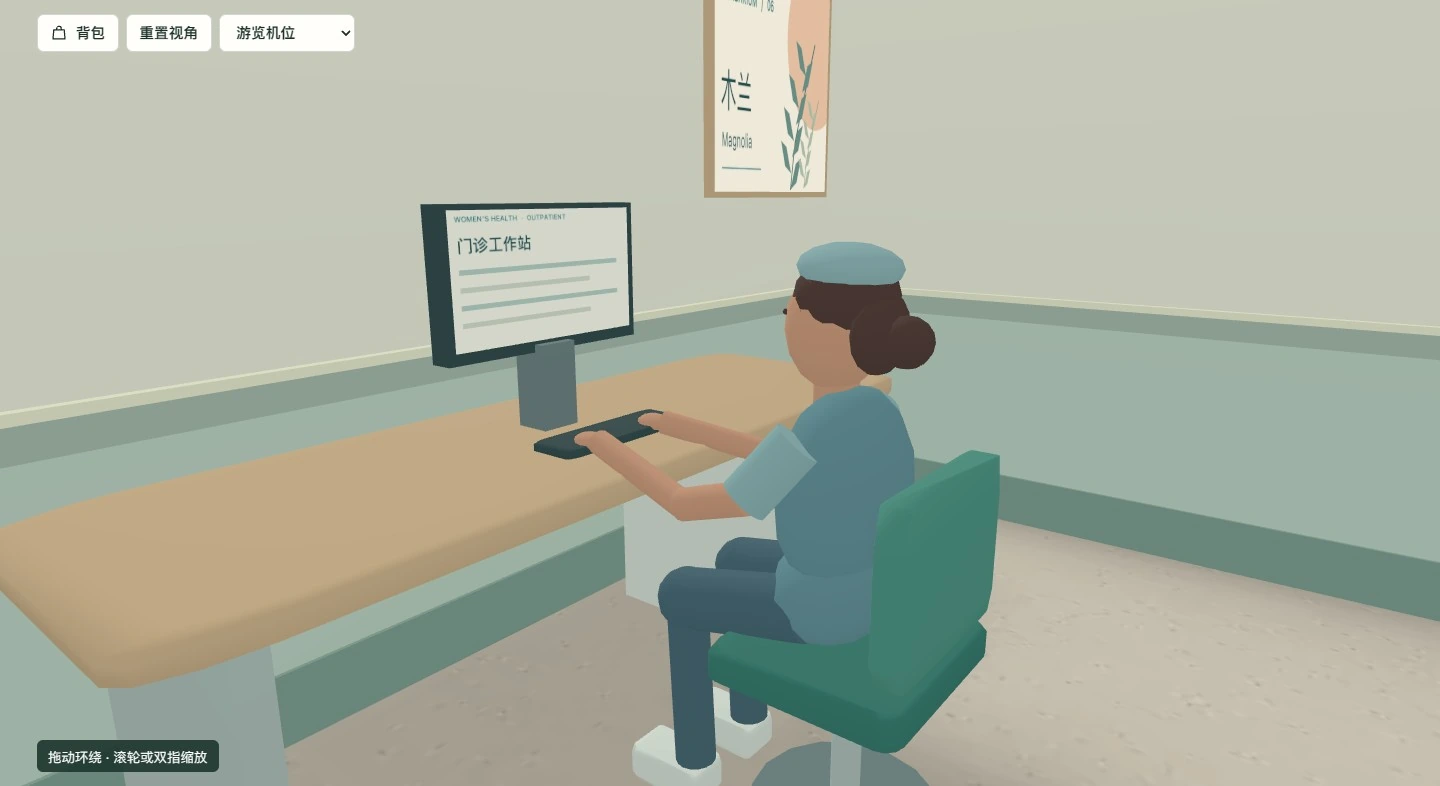
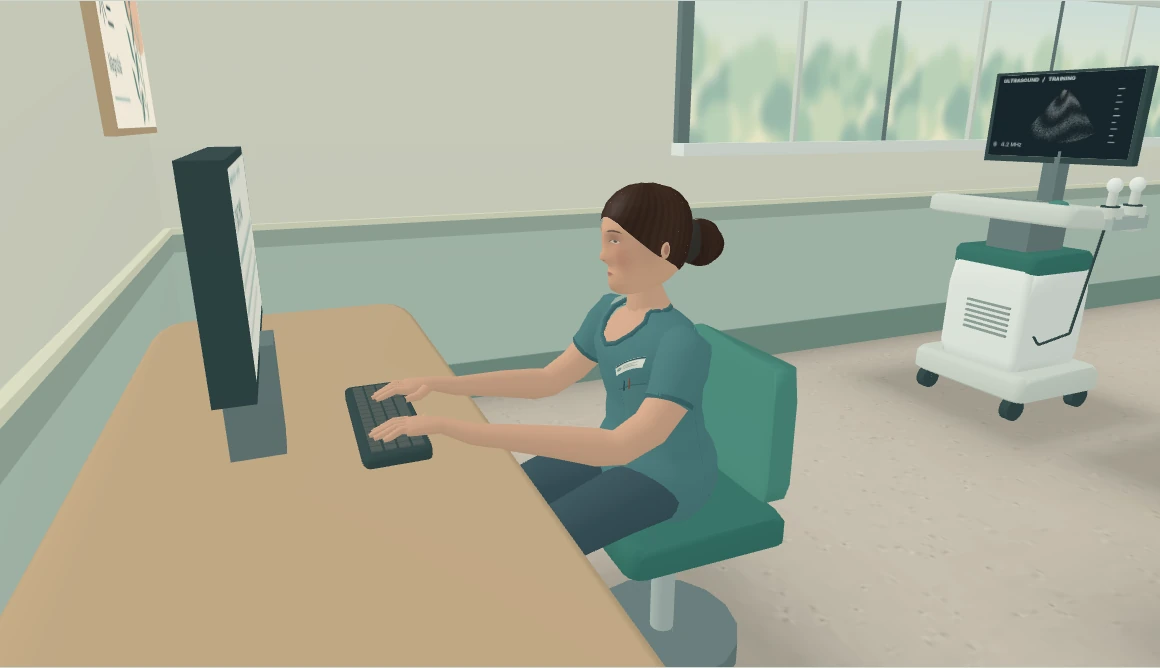
Refine the seated clinic nurse and separate figure geometry from room fixtures

diff --git a/src/mmdVrShowcase/scenery/clinic/nurseFigure.ts b/src/mmdVrShowcase/scenery/clinic/nurseFigure.ts
@@ -1,0 +1,74 @@
+import {nurseSurface,section,mix,tau,type Ring,type Sample,type Finish} from './nurseSurface';
+
+// All coordinates are measured from the existing chair at floor level; the
+// keyboard is ahead (+Z). Keep UV islands inset so mipmaps don't sample labels.
+const bell=(x:number,w:number)=>Math.exp(-(x*x)/(w*w));
+
+export function clinicNurseGeometry(){
+  const {patch,bulb,tube,cord,build}=nurseSurface();
+
+  const skin='#dbad92',scrub='#54878b',binding='#426f76',trousers='#405b66';
+  const skull:Ring[]=[[1.035,.014,.026,.119],[1.045,.04,.052,.107],[1.067,.055,.073,.092],[1.093,.070,.085,.080],[1.122,.079,.093,.078],[1.149,.082,.099,.077],[1.175,.081,.103,.078],[1.206,.083,.099,.079],[1.232,.077,.088,.080],[1.254,.059,.068,.080],[1.269,.034,.040,.081],[1.275,.003,.004,.081]];
+  // One continuous face surface: jaw, chin, cheeks, eye sockets, brow and
+  // nose alter the profile, rather than attaching balls to a spherical head.
+  patch(64,44,(u,v)=>{
+    const y=1.035+.240*v,[w,d,z]=section(skull,y),a=(u-.5)*tau,x=w*Math.sin(a),f=Math.max(0,Math.cos(a));
+    const cheek=.008*bell(Math.abs(x)-.044,.019)*bell(v-.41,.15),socket=-.007*bell(Math.abs(x)-.031,.015)*bell(v-.518,.051);
+    const brow=.005*bell(Math.abs(x)-.030,.022)*bell(v-.607,.044),nose=.012*bell(x,.011)*bell(v-.46,.155)+.015*bell(x,.016)*bell(v-.355,.054)+.005*bell(Math.abs(x)-.011,.006)*bell(v-.337,.022);
+    const mouth=.005*bell(x,.029)*bell(v-.20,.034),chin=.006*bell(x,.023)*bell(v-.085,.069);
+    return [x,y,z+d*Math.cos(a)+f*f*(cheek+socket+brow+nose+mouth+chin)];
+  },'face','#ffffff');
+  tube([[[0,.973,.055],.062,.053],[[0,1.01,.073],.053,.048],[[0,1.05,.079],.041,.038],[[0,1.096,.084],.043,.038]],skin);
+  for(const s of [-1,1]){
+    bulb([s*.079,1.144,.074],[.012,.021,.012],skin);
+    bulb([s*.089,1.145,.075],[.003,.011,.006],'#b88673');
+  }
+  // Side part swept back from the temple. Keep the forehead and ears clear;
+  // the nape and bun have different strand directions and a visible fabric tie.
+  patch(48,18,(u,v)=>{const a=(u-.5)*tau,co=Math.cos(a),si=Math.sin(a);
+    const edge=1.126+.084*Math.max(0,co)**1.55-.039*Math.max(0,-co)+.015*si*co;
+    const y=mix(edge,1.281,v),[w,d,z]=section(skull,Math.min(y-.007,1.274));
+    const corr=(.004+.0014*Math.cos(a*19+v*3.8))*(1-v);
+    return [(w+corr)*si,y,z+(d+corr+.003*(1-co))*co];},'hair','#f6ece1');
+  bulb([0,1.146,-.027],[.055,.052,.040],'#383633');
+  patch(32,14,(u,v)=>{const a=tau*u,b=(v-.5)*3.14,r=1+.065*Math.sin(a*6+b*3);return [.002+.061*r*Math.cos(b)*Math.sin(a),1.14+.055*Math.sin(b),-.060+.052*r*Math.cos(a)*Math.cos(b)]},'hair','#e4dbcf');
+
+  // Raglan top over the lap, with gathered side seams and a real overlapping V.
+  const bodice:Ring[]=[[.503,.139,.099,.038],[.541,.173,.131,.041],[.60,.184,.143,.036],[.664,.172,.127,.036],[.708,.155,.107,.042],[.77,.146,.105,.048],[.836,.157,.114,.059],[.900,.174,.116,.068],[.95,.178,.092,.067],[.980,.148,.071,.061],[1.003,.070,.046,.070]];
+  tube([[[0,.909,.070],.133,.109],[[0,.935,.072],.125,.097],[[0,.972,.069],.103,.068],[[0,.994,.072],.065,.046],[[0,1.015,.072],.047,.042]],skin,'paint',32);
+  const bodyAt:Sample=(u,v)=>{const a=(u-.5)*tau,co=Math.cos(a),si=Math.sin(a);const cut=.085*Math.max(0,co)**7;
+    const y=.503+(.5-cut)*v,[w,d,z]=section(bodice,y);
+    const wrinkle=(.005*Math.cos(2*Math.PI*(y*13+.8*si))+.003*Math.sin(a*7+y*17))*bell(y-.665,.084)*(.4+.6*Math.abs(si));
+    return [(w+wrinkle)*si,y,z+(d+wrinkle)*co];};
+  patch(48,34,bodyAt,'fabric',scrub);
+  const neckEdge=Array.from({length:31},(_,i)=>bodyAt(i/30,1));cord(neckEdge,.006,binding);
+  for(const side of [-1,1]){
+    cord(Array.from({length:11},(_,i)=>bodyAt(.5+side*(.265+.035*Math.sin(i*.23)),.04+i*.067)),.0018,'#4b7d81');
+    cord(Array.from({length:9},(_,i)=>bodyAt(.5+side*(.36-i*.021),.89+.053*Math.cos(i*.26))),.0017,'#679797');
+  }
+  // Chest patch, stitched pocket and short pen clips, all attached to fabric.
+  function panel(u0:number,u1:number,v0:number,v1:number,finish:Finish,col:string,lift:number){patch(8,6,(u,v)=>{const r=bodyAt(mix(u0,u1,u),mix(v0,v1,v));r[2]+=lift;return r;},finish,col,false);}
+  panel(.558,.646,.57,.72,'fabric','#598b8d',.002);cord([bodyAt(.558,.72),bodyAt(.60,.719),bodyAt(.646,.72)].map(([x,y,z])=>[x,y,z+.003]),.0022,binding);
+  panel(.554,.635,.80,.85,'badge','#ffffff',.003);
+  for(const [i,c] of ['#335868','#8b5744'].entries()){const [x,y,z]=bodyAt(.578+i*.019,.70);cord([[x,y,z+.006],[x,y+.025,z+.004]],.0025,c);}
+
+  for(const s of [-1,1]){
+    const delta=s>0?.017:-.012;
+    // Shoulder cap to cuff; arm continues *inside* the opening. Forearms
+    // pronate and taper to a wrist resting just above the front of the desk.
+    tube([[[s*.129,.948,.065],.044,.047],[[s*.167,.932,.068],.060,.066],[[s*.187,.902,.087],.061,.060],[[s*.202,.858,.113],.055,.052],[[s*.208,.840,.126],.054,.052]],scrub,'fabric');
+    tube([[[s*.206,.847,.122],.055,.052],[[s*.21,.838,.127],.055,.052]],binding,'fabric');
+    tube([[[s*.204,.851,.118],.044,.045],[[s*.215,.797,.171],.042,.042],[[s*.211,.762,.240],.037,.038],[[s*.201,.767,.285],.043,.039],[[s*.181,.787,.374],.037,.032],[[s*.139,.814,.514+delta],.025,.021],[[s*.121,.834,.569+delta],.023,.015],[[s*.112,.838,.616+delta],.036,.016],[[s*.109,.837,.635+delta],.035,.014]],skin,'paint',18);
+    for(let j=0;j<4;j++){
+      const x=s*(.082+j*.016),z=.628+delta,len=[.071,.078,.071,.055][j];
+      tube([[[x,.838,z],.009,.010],[[x+s*.003,.842,z+len*.4],.008,.008],[[x+s*.004,.832,z+len*.75],.007,.007],[[x+s*.003,.826,z+len],.005,.005]],skin,'paint',9);
+    }
+    tube([[[s*.086,.837,.589+delta],.015,.012],[[s*.073,.827,.611+delta],.012,.010],[[s*.063,.826,.641+delta],.007,.007]],skin);
+    // Seat compresses the back of the trousers; the two feet are staggered.
+    const step=s>0?.042:-.022;
+    tube([[[s*.080,.578,-.015],.083,.069],[[s*.083,.579,.060],.092,.076],[[s*.094,.561,.180],.086,.073],[[s*.106,.535,.292],.075,.067],[[s*.109,.512,.363],.067,.066],[[s*.110,.479,.389],.064,.061],[[s*.113,.413,.380],.060,.054],[[s*.114,.310,.35+step*.4],.054,.051],[[s*.115,.198,.334+step],.045,.044],[[s*.119,.115,.338+step],.045,.043],[[s*.119,.091,.340+step],.051,.045]],trousers,'fabric',20);
+    const shoe:Ring[]=[[.011,.043,.101,.380],[.022,.054,.118,.386],[.037,.053,.117,.387],[.055,.050,.112,.385],[.078,.047,.080,.362],[.100,.041,.050,.342],[.109,.032,.039,.34]];
+    for(const sole of [true,false])patch(20,sole?2:7,(u,v)=>{const y=sole?mix(.011,.031,v):mix(.031,.109,v),[w,d,z]=section(shoe,y),a=tau*u;return [s*.118+w*Math.sin(a),y-.010,z+step+d*Math.cos(a)]},'paint',sole?'#8c9694':'#e5e7db');
+  }
+  return build();
+}

diff --git a/src/mmdVrShowcase/scenery/clinic/nurseSurface.ts b/src/mmdVrShowcase/scenery/clinic/nurseSurface.ts
@@ -1,0 +1,69 @@
+import {BufferGeometry,Color,Float32BufferAttribute,Vector3} from 'three';
+
+export type V=[number,number,number];
+export type Ring=[number,number,number,number]; // y, half width, half depth, centre z
+type Joint=[V,number,number];
+export type Sample=(u:number,v:number)=>V;
+export type Finish='paint'|'fabric'|'face'|'hair'|'badge';
+// Pixel rectangles in bakeNurse.py, with a margin for filtered sampling.
+const finishes:Record<Finish,{rect:[number,number,number,number];rough:number}>={
+  paint:{rect:[850,330,10,10],rough:.68},fabric:{rect:[771,3,250,250],rough:.91},
+  face:{rect:[1,1,510,510],rough:.71},hair:{rect:[514,2,252,252],rough:.50},badge:{rect:[521,273,245,147],rough:.44},
+};
+export const tau=Math.PI*2;
+export const mix=(a:number,b:number,t:number)=>a+(b-a)*t;
+const clamp=(t:number)=>Math.min(1,Math.max(0,t));
+export function section(rows:Ring[],y:number){
+  let i=0;
+  while(i<rows.length-2&&y>rows[i+1][0])i++;
+  const a=rows[i],b=rows[i+1],t=clamp((y-a[0])/(b[0]-a[0]));
+  return [mix(a[1],b[1],t),mix(a[2],b[2],t),mix(a[3],b[3],t)];
+}
+
+/** Build one static, indexed draw. Normals come from neighbouring samples of
+ * the actual surface, including across UV seams, not from texture luminance. */
+export function nurseSurface(){
+  const pos:number[]=[],colors:number[]=[],norm:number[]=[],uv:number[]=[],rough:number[]=[],indices:number[]=[];
+  const tu=new Vector3(),tv=new Vector3(),point=new Vector3(),other=new Vector3();
+  function patch(nx:number,ny:number,at:Sample,finish:Finish,color:string,wrap=true){
+    const start=pos.length/3,c=new Color(color),{rect:[x,y,w,h],rough:r}=finishes[finish];
+    const stride=nx+1;
+    for(let j=0;j<=ny;j++)for(let i=0;i<=nx;i++){
+      const u=i/nx,v=j/ny;pos.push(...at(u,v));colors.push(c.r,c.g,c.b);rough.push(r);
+      uv.push((x+w*u)/1024,1-(y+h*(1-v))/512);
+      if(i&&j){const b=start+j*stride+i,a=b-stride-1;indices.push(a,a+1,b,a,b,b-1);}
+    }
+    for(let j=0;j<=ny;j++)for(let i=0;i<=nx;i++){
+      const row=start+j*stride;
+      point.fromArray(pos,(row+(i===nx?(wrap?1:nx):i+1))*3);
+      other.fromArray(pos,(row+(i===0?(wrap?nx-1:0):i-1))*3);tu.subVectors(point,other);
+      point.fromArray(pos,(start+Math.min(j+1,ny)*stride+i)*3);
+      other.fromArray(pos,(start+Math.max(j-1,0)*stride+i)*3);tv.subVectors(point,other);
+      tu.cross(tv).normalize();norm.push(tu.x,tu.y,tu.z);
+    }
+  }
+  function bulb(p:V,r:V,col:string,finish:Finish='paint',segments=16){
+    patch(segments,8,(u,v)=>{const a=tau*(u-.5),b=(v-.5)*3.14;return [p[0]+r[0]*Math.sin(a)*Math.cos(b),p[1]+r[1]*Math.sin(b),p[2]+r[2]*Math.cos(a)*Math.cos(b)]},finish,col);
+  }
+  function tube(js:Joint[],col:string,finish:Finish='paint',sides=14){
+    // Loft one ring per joint. Extra interpolated rings along straight limbs
+    // cost triangles without changing their silhouette.
+    const knots=js.map(([p])=>new Vector3(...p));
+    const dirs=knots.map((_,i)=>knots[Math.min(i+1,knots.length-1)].clone().sub(knots[Math.max(0,i-1)]).normalize());
+    const ref=Math.abs(dirs[0].x)>.85?new Vector3(0,0,1):new Vector3(1,0,0);
+    const axes=dirs.map(d=>{const a=ref.clone().addScaledVector(d,-ref.dot(d)).normalize();return [a,a.clone().cross(d)];});
+    patch(sides,js.length-1,(u,v)=>{
+      const i=Math.round(v*(js.length-1)),[a,b]=axes[i];
+      return point.copy(knots[i]).addScaledVector(a,js[i][1]*Math.sin(tau*u)).addScaledVector(b,js[i][2]*Math.cos(tau*u)).toArray();
+    },finish,col);
+  }
+  function cord(points:V[],r:number,col:string){tube(points.map((p,i)=>[p,r*(i===0||i===points.length-1?.5:1),r]),col,'paint',7);}
+  function build(){
+    const g=new BufferGeometry();
+    for(const [name,data,size] of [['position',pos,3],['normal',norm,3],['color',colors,3],['uv',uv,2],['finishRoughness',rough,1]] as const){
+      g.setAttribute(name,new Float32BufferAttribute(data,size));
+    }
+    g.setIndex(indices);g.computeBoundingSphere();return g;
+  }
+  return {patch,bulb,tube,cord,build};
+}

diff --git a/src/mmdVrShowcase/scenery/clinic/ClinicNurse.tsx b/src/mmdVrShowcase/scenery/clinic/ClinicNurse.tsx
@@ -1,39 +1,30 @@
-import {useEffect,useMemo} from 'react';
-import {BoxGeometry, Color, CylinderGeometry, Float32BufferAttribute, Object3D, SphereGeometry, type MeshStandardMaterial} from 'three';
-import {mergeGeometries} from 'three/addons/utils/BufferGeometryUtils.js';
+import {useCallback,useEffect,useMemo} from 'react';
+import {DataTexture,SRGBColorSpace,type MeshStandardMaterial} from 'three';
 import {useMmdVrStore} from '../../mmdVrStore';
-import {ClinicParts,padGeometry} from './clinicParts';
+import {useBakedSurface} from '../useBakedSurface';
 import {FIXTURES} from './clinicLayout';
-import {seatedNurse} from './clinicTeaching';
-
-// Bake just the original nurse's instance transforms/colours into one opaque
-// mesh, leaving the desk, chair and architecture in their existing batches.
-function nurseGeometry(){
-  const p=new ClinicParts();seatedNurse(p);
-  const pose=new Object3D(),tint=new Color(),seat=FIXTURES.deskSeat;
-  const batches=[[p.blocks,new BoxGeometry()], [p.soft,padGeometry()],
-    [p.poles,new CylinderGeometry(.5,.5,1,16)], [p.ovals,new SphereGeometry(.5,12,8)]] as const;
-  const pieces=batches.flatMap(([parts,base])=>parts.map(part=>{
-    const g=base.clone();g.deleteAttribute('uv');
-    pose.position.set(part.p[0]-seat.x,part.p[1],part.p[2]-seat.z);
-    pose.rotation.set(part.rx??0,part.ry??0,part.rz??0);pose.scale.set(...part.s);pose.updateMatrix();
-    g.applyMatrix4(pose.matrix);tint.set(part.color);
-    const rgb=new Float32BufferAttribute(new Float32Array(g.attributes.position.count*3),3);
-    for(let i=0;i<rgb.count;i++)rgb.setXYZ(i,tint.r,tint.g,tint.b);
-    return g.setAttribute('color',rgb);
-  }));
-  const geometry=mergeGeometries(pieces);
-  for(const g of pieces)g.dispose();for(const [,g] of batches)g.dispose();
-  return geometry;
-}
+import {clinicNurseGeometry} from './nurseFigure';
+import paintUrl from './clinic-nurse.webp';
 
 type Props={shadows:boolean;shade:MeshStandardMaterial['onBeforeCompile']};
 function NurseMesh({shadows,shade}:Props){
-  const geometry=useMemo(nurseGeometry,[]);
-  useEffect(()=>()=>geometry.dispose(),[geometry]);
+  const geometry=useMemo(clinicNurseGeometry,[]),paint=useBakedSurface(paintUrl);
+  // Keep the existing figure visible before the portrait finishes decoding.
+  const primer=useMemo(()=>{
+    const rgba=[0xe0b092,0xe0b092,0xffffff,0xffffff,0xe0b092,0xe0b092,0x41302a,0xffffff];
+    const map=new DataTexture(new Uint8Array(rgba.flatMap(c=>[c>>16,(c>>8)&255,c&255,255])),4,2);
+    map.colorSpace=SRGBColorSpace;map.needsUpdate=true;return map;
+  },[]);
+  const finish=useCallback<MeshStandardMaterial['onBeforeCompile']>((shader,gl)=>{
+    shade(shader,gl);
+    shader.vertexShader='attribute float finishRoughness; varying float vFinishRoughness;\n'+shader.vertexShader.replace('#include <begin_vertex>','#include <begin_vertex>\nvFinishRoughness=finishRoughness;');
+    shader.fragmentShader='varying float vFinishRoughness;\n'+shader.fragmentShader.replace('#include <roughnessmap_fragment>','#include <roughnessmap_fragment>\nroughnessFactor=vFinishRoughness;');
+  },[shade]);
+  useEffect(()=>()=>{geometry.dispose();primer.dispose()},[geometry,primer]);
+  useEffect(()=>{if(paint)primer.dispose()},[paint,primer]);
   return <mesh name="scenery:clinic-nurse" position={[FIXTURES.deskSeat.x,0,FIXTURES.deskSeat.z]} raycast={()=>null}
     pointerEvents="none" castShadow={shadows} receiveShadow={shadows}>
-    <primitive object={geometry} attach="geometry"/><meshStandardMaterial vertexColors roughness={.88} onBeforeCompile={shade}/>
+    <primitive object={geometry} attach="geometry"/><meshStandardMaterial map={paint??primer} vertexColors onBeforeCompile={finish}/>
   </mesh>;
 }
 

diff --git a/src/mmdVrShowcase/scenery/clinic/clinicTeaching.ts b/src/mmdVrShowcase/scenery/clinic/clinicTeaching.ts
@@ -12,30 +12,6 @@ export function modelBench(p:ClinicParts){
   p.poster(EXHIBITS[1].x,2.10,-3.142,.76,0,3);p.poster(EXHIBITS[2].x,2.10,-3.142,.76,0,4);
 }
 
-export function seatedNurse(p:ClinicParts){
-  const {x,z}=F.deskSeat,scrubs='#648f9a',sleeve='#8cb0b5',skin='#c9987d',hair='#533e3b';
-  // A seated static figure on the existing seat, facing its keyboard (+Z).
-  p.egg(x,.605,z+.035,.333,.237,.238,scrubs);
-  p.egg(x,.813,z+.026,.367,.421,.249,scrubs,-.065);
-  p.cylinder(x,.995,z+.052,.095,.104,.09,skin);
-  p.egg(x,1.13,z+.060,.204,.25,.191,skin,.07);
-  p.egg(x,1.192,z+.036,.214,.164,.203,hair,.04);p.egg(x,1.13,z-.038,.182,.162,.091,hair);
-  p.egg(x,1.117,z-.092,.107,.099,.101,hair);p.egg(x,1.247,z+.03,.215,.095,.201,sleeve,-.05);
-  p.egg(x,1.133,z+.15,.039,.049,.039,skin);
-  for(const k of [-1,1]){
-    p.egg(x+k*.052,1.16,z+.14,.015,.012,.008,hair);
-    p.rod([x+k*.156,.939,z+.04],[x+k*.213,.826,z+.119],.101,sleeve);
-    p.rod([x+k*.209,.831,z+.114],[x+k*.191,.773,z+.287],.068,skin);
-    p.rod([x+k*.191,.773,z+.287],[x+k*.111,.827,z+.603],.059,skin);
-    p.egg(x+k*.108,.824,z+.634,.069,.041,.091,skin);
-    p.rod([x+k*.087,.573,z+.055],[x+k*.105,.515,z+.348],.134,'#486775');
-    p.egg(x+k*.103,.515,z+.35,.135,.135,.136,'#486775');
-    p.rod([x+k*.105,.515,z+.35],[x+k*.104,.122,z+.329],.093,'#486775');
-    p.pad(x+k*.104,.075,z+.389,.108,.081,.196,C.milk);
-  }
-  p.box(x-.09,.892,z+.136,.062,.051,.012,C.white,0,-.18,-.10);
-}
-
 export function instrumentTray(p:ClinicParts){
   const {x,z}=F.steelCart;
   p.pad(x,.842,z,.786,.018,.435,C.chrome);p.pad(x,.852,z,.75,.006,.394,'#315e62');

diff --git a/src/mmdVrShowcase/scenery/clinic/clinicEquipment.ts b/src/mmdVrShowcase/scenery/clinic/clinicEquipment.ts
@@ -83,6 +83,13 @@ export function examRoom(p:ClinicParts){
   p.box(desk.x-.78,.375,desk.z,.57,.706,.62,C.milk);p.box(desk.x+.96,.382,desk.z,.062,.703,.64,C.chrome);
   p.box(desk.x+.014,.894,desk.z+.074,.11,.235,.10,C.iron);monitor(p,desk.x+.015,1.175,desk.z+.081,.612,.367,13,pi);
   p.pad(desk.x+.02,.81,desk.z-.17,.41,.022,.13,C.graphite);
+  // The desk is seen from close by now. Put the keycaps at fingertip height,
+  // in the existing dark hardware batch rather than one mesh per key.
+  for(let row=0;row<4;row++)for(let key=0;key<15;key++){
+    if(row===0&&key>=4&&key<=10)continue;
+    p.box(desk.x+.02+(key-7)*.024, .822,desk.z-.211+row*.026,.020,.004,.021,'#56625f');
+  }
+  p.box(desk.x+.02,.822,desk.z-.211,.158,.004,.021,'#53615e');
   ({x,z}=F.deskSeat);p.pad(x,.465,z,.46,.076,.427,C.teal);p.pad(x,.708,z-.18,.428,.332,.071,C.green);p.cylinder(x,.25,z,.064,.348,.064,C.chrome);p.cylinder(x,.07,z,.41,.063,.41,C.iron);
   p.frame(-7.99,1.79,4.69,.80,.80,pi,5,C.oak);
 }

diff --git a/src/mmdVrShowcase/scenery/roomViews.ts b/src/mmdVrShowcase/scenery/roomViews.ts
@@ -26,7 +26,8 @@ export const roomViews:Record<SceneryId,RoomView>={
     {key:'clinicGardenPorch',eye:[CLINIC_ORIGIN.x+4.15,1.6,CLINIC_ORIGIN.z+11.25],aim:[CLINIC_ORIGIN.x,1.35,CLINIC_ORIGIN.z+7.0]}]},
   astralCourt:{entry:[[.85,1.65,4.4],[0,1.47,-1.25]],shots:COURT_SHOTS.map(s=>({...s,overview:s.key==='courtOverview'}))},
   chapel:{entry:[[.25,1.63,4.7],[0,1.68,-3.8]],shots:CHAPEL_SHOTS}, clinic:{entry:CLINIC_VIEW,shots:[...CLINIC_SHOTS,
-    {key:'clinicDesk',eye:[-4.90,1.53,2.12],aim:[-6.42,.96,3.74]}]},
+    {key:'clinicDesk',eye:[-4.90,1.53,2.12],aim:[-6.42,.96,3.74]},
+    {key:'clinicDeskSide',eye:[-5.00,1.41,4.24],aim:[-6.43,.95,3.65]}]},
   qinhuai:{entry:SCREEN_ENTRY,shots:[...SHOTS,
     {key:'qinLacquer',eye:[3.48,2.05,-5.70],aim:[4.03,1.41,-6.70]},
     {key:'qinMooring',eye:[4.38,.91,13.03],aim:[3.65,.19,11.99]}]},

diff --git a/src/i18n/en.ts b/src/i18n/en.ts
@@ -30,6 +30,7 @@ export const en: Record<keyof ZhMessages, string> = {
   weddingGateFinish:'Lacquer and roof tiles',classWindowDesk:'Window-side desk',
   sceneryPeople:'Scene people',sceneryPeopleOn:'Scene people: on',sceneryPeopleOff:'Scene people: off',
   clinicDesk:'Consultation desk',
+  clinicDeskSide:'Beside the consultation desk',
   classWindowPortrait:'Window-light portrait',
   qinLacquer:'Strings and lacquer',qinMooring:'At the mooring post',
   clinicModels:'Anatomy models',clinicInstruments:'Instrument tray',clinicSupplies:'Hygiene supplies',

diff --git a/src/i18n/zh.ts b/src/i18n/zh.ts
@@ -28,6 +28,7 @@ export const zh = {
   weddingGateFinish:'门楼漆木与灰瓦',classWindowDesk:'窗边课桌',
   sceneryPeople:'场景人物',sceneryPeopleOn:'场景人物：开',sceneryPeopleOff:'场景人物：关',
   clinicDesk:'诊室工作台',
+  clinicDeskSide:'工作台侧面',
   classWindowPortrait:'窗边人像',
   qinLacquer:'近看琴弦与漆面',qinMooring:'埠头系舟处',
   clinicModels:'解剖教具台',clinicInstruments:'妇产科器械盘',clinicSupplies:'卫生用品架',

diff --git a/src/mmdVrShowcase/scenery/clinic/bakeNurse.py b/src/mmdVrShowcase/scenery/clinic/bakeNurse.py
@@ -1,0 +1,47 @@
+"""Original clinic figure paint; no photographs or external assets. Pillow + NumPy."""
+from pathlib import Path
+import math
+import numpy as np
+from PIL import Image, ImageDraw
+
+# Left half: cylindrical face UV, U=.5 at the nose, V=0 at the chin.
+n=512
+y,x=np.mgrid[:n,:n]; angle=(x/(n-1)-.5)*2*math.pi; v=1-y/(n-1)
+rng=np.random.default_rng(57)
+base=np.zeros((n,n,3))+[224,176,146]
+base+=rng.normal(0,.8,(n,n,1))
+def wash(a,b,s,t,col,amount):
+    g=np.exp(-((angle-a)/s)**2-((v-b)/t)**2)[...,None]*amount
+    base[:]=base*(1-g)+np.array(col)*g
+for side in [-1,1]:
+    wash(side*.53,.37,.34,.14,[194,122,111],.45)
+    wash(side*.38,.556,.27,.071,[144,100,92],.5)
+    wash(side*1.26,.50,.40,.19,[181,135,117],.40)
+wash(0,.07,.64,.08,[180,128,114],.35)
+face=Image.fromarray(np.uint8(np.clip(base,0,255))); d=ImageDraw.Draw(face)
+def pts(seq):return [((a/(2*math.pi)+.5)*(n-1),(1-b)*(n-1)) for a,b in seq]
+def poly(seq,c): d.polygon(pts(seq),fill=c)
+def line(seq,c,w):d.line(pts(seq),fill=c,width=w,joint='curve')
+for s in [-1,1]:
+    def mir(seq): return [(s*a,b) for a,b in seq]
+    # The lids enclose the iris; the darker upper lid overlaps its upper arc.
+    eye=[(.19,.514),(.27,.531),(.37,.538),(.46,.534),(.55,.522),(.48,.508),(.38,.500),(.28,.503)]
+    poly(mir(eye),'#e1d1be');xy=pts([(s*.365,.518)])[0];ix,iy=xy
+    d.ellipse((ix-5.5,iy-6.5,ix+5.5,iy+5.5),fill='#564437');d.ellipse((ix-2.5,iy-3.5,ix+2.5,iy+2),fill='#2c2823');d.ellipse((ix-2,iy-3,ix-.5,iy-1.5),fill='#e2d9cc')
+    line(mir(eye[:5]),'#59423b',2);line(mir([(.24,.550),(.35,.559),(.46,.554),(.53,.540)]),'#b78571',1)
+    poly(mir([(.17,.603),(.26,.619),(.40,.628),(.56,.617),(.65,.597),(.52,.607),(.37,.611),(.23,.599)]),'#665046')
+    line(mir([(.047,.340),(.094,.333),(.13,.339)]),'#926452',2)
+poly([(-.245,.204),(-.10,.219),(0,.214),(.09,.219),(.245,.204),(.10,.197),(0,.195),(-.11,.198)],'#ab7467')
+poly([(-.245,.204),(-.12,.179),(0,.174),(.13,.182),(.245,.204),(0,.196)],'#c18b7f');line([(-.205,.203),(0,.197),(.205,.203)],'#925f56',1)
+atlas=Image.new('RGB',(1024,512),'white');atlas.paste(face,(0,0));
+# Hair brush follows the sweep towards the low twist. Keep value variation in
+# broad locks; dark fine strands never become bright isolated pixels at distance.
+p=(x/(n-1));t=y/(n-1);phase=2*math.pi*(p*35+.55*np.sin(p*2*math.pi+t*3)+.33*t)
+h=4.4*np.sin(phase)+2.5*np.sin(phase*2.9)+5*np.sin(p*math.pi*8+t*2)
+hair=np.uint8(np.clip(np.array([65,48,42])[None,None,:]+h[...,None]*[1,.8,.67],0,255));atlas.paste(Image.fromarray(hair).resize((256,256)),(512,0))
+weave=(np.sin(p*math.pi*230)*1.8+np.cos(t*math.pi*194)*1.8+.9*np.sin(t*30+p*6))
+cloth=np.uint8(np.clip(247+weave,0,255));atlas.paste(Image.fromarray(cloth).convert('RGB').resize((256,256)),(768,0))
+# A woven clinic emblem and pen marks, not a real employee identity.
+badge=Image.new('RGB',(248,150),'#e6e9de');bd=ImageDraw.Draw(badge);bd.rectangle((0,0,247,26),fill='#335f66');bd.ellipse((15,52,62,99),fill='#6c999b');bd.line((24,76,35,76,40,64,46,85,51,76,55,76),fill='#f2ede1',width=3)
+for yy,w in [(56,116),(76,94),(96,121)]:bd.rounded_rectangle((79,yy,79+w,yy+6),radius=2,fill='#75918e')
+atlas.paste(badge,(520,272));atlas.save(Path(__file__).with_name('clinic-nurse.webp'),quality=94,method=6)

diff --git a/docs/scenery/clinic-teaching.md b/docs/scenery/clinic-teaching.md
@@ -6,6 +6,8 @@
 
 **原有护士的显隐。** 屏幕选「游览机位 → 诊室工作台」，在「背包 → 环境」切换「场景人物」；VR 在「B → 更多 → 环境」。[同机位开关对照](../screenshots/clinic-people-toggle.webp)。默认显示；隐藏后座椅、显示器和三类教具不动，护士专属的占地与射线遮挡随之移除。模拟 XR 扳机与屏幕勾选均验证了离区回访、刷新记忆和已放置 PMX／GLB 的位置与朝向。其余九景没有内置人物，不显示这个开关。
 
+**近看工作台。** 选「工作台侧面」，能看到护士侧脸、低发髻、制服领口和停在键盘上的手指。她仍是静态布景人物，没有打字动画。[同机位建模前后，左旧右新](../screenshots/clinic-nurse-before-after.webp) · [侧面实景](../screenshots/clinic-nurse.webp)。脸、头发、织物与胸牌共用一张原创 1024 × 512 图集（11,974 字节），粗糙度由顶点区分。新版人物为一个网格，9,692 个顶点、17,232 个三角形；不占角色名额，也不创建 Bullet 世界。桌面 WebGL 着色程序链接通过，真机帧率待验。
+
 - **解剖教具台（妇科诊室）**：从左至右是盆腔正中矢状剖面、子宫与附件正面剖面、胎儿与胎盘模型。左侧模型的前方在观察者左手边：蓝色膀胱在前，阴道上接宫颈，棕色直肠在后。中央可见宫腔、两侧输卵管及游离的伞端，第三件模型用脐带连接胎儿腹部和宫壁上的胎盘。每件对应一张墙图。护士坐在既有工作台前，不占背包角色名额。
 - **妇产科器械盘（手术室）**：在推车近看四件静态器械：带窗叶片的产钳、双叶窥器、环形钳头的卵圆钳、带指环的手术剪。器械牌只列名称与英文对照。
 - **卫生用品架（女卫生间）**：在有中文包装和图标的三格货架区分验孕试纸、卫生巾与一次性内裤。置物架旁和两个隔间内各有带盖脚踏桶。产后照护图贴在架旁，也挂在候诊宣教墙，区分可在随访时讨论的问题与需要立即就医的症状。
@@ -21,7 +23,7 @@
 
 ## 维护与核对
 
-- [模型与器械几何](../../src/mmdVrShowcase/scenery/clinic/teachingSolids.ts)在进场时生成，各合并为一个静态顶点色网格。货架、包装、底座和护士复用房间已有实例批次。新增绘制共三批：模型、器械、印刷面；退出后释放几何和图集，不创建额外灯光、骨骼或物理世界。
+- [模型与器械几何](../../src/mmdVrShowcase/scenery/clinic/teachingSolids.ts)在进场时生成，各合并为一个静态顶点色网格。包装、底座和键帽复用房间实例批次。护士由独立的 [ClinicNurse.tsx](../../src/mmdVrShowcase/scenery/clinic/ClinicNurse.tsx) 管理显隐、材质与释放；[坐姿模型](../../src/mmdVrShowcase/scenery/clinic/nurseFigure.ts)、[曲面建网](../../src/mmdVrShowcase/scenery/clinic/nurseSurface.ts)和[离线图集绘制](../../src/mmdVrShowcase/scenery/clinic/bakeNurse.py)分别维护。改人物不需要修改医院教学陈列。
 - [烘焙脚本](../../scripts/bake-clinic-teaching.py)与渲染器共用 `teachingPrints.json` 的像素区域。运行 `python scripts/bake-clinic-teaching.py` 生成 1536 × 1024 的 `clinic-teaching.webp`（约 163 KiB）；需要 Pillow 和中文字体，`CLINIC_FONT`、`CLINIC_FONT_BOLD` 可指定字体文件。改变地面设备位置后，运行 `python src/mmdVrShowcase/scenery/clinic/bakeClinic.py` 刷新地面的接触阴影。
 - `pnpm exec vitest run src/mmdVrShowcase/scenery/clinic` 检查房间连通、隔间边界、实际模型顶点是否落在声明的遮挡范围内，以及教具之间可穿过、实体背后不可穿过的放置线段。
 - 桌面 WebGL 已从实际屏幕控件打开三个新机位，核对中文海报、包装与器械形状。使用真实鼠标按下／抬起瞄准货架占地和护士背后的空地，均没有确认放置；改向工作台旁无阻挡地面，同一件测试物品成功放置。未作 Quest 帧率和头显可读性测量。
